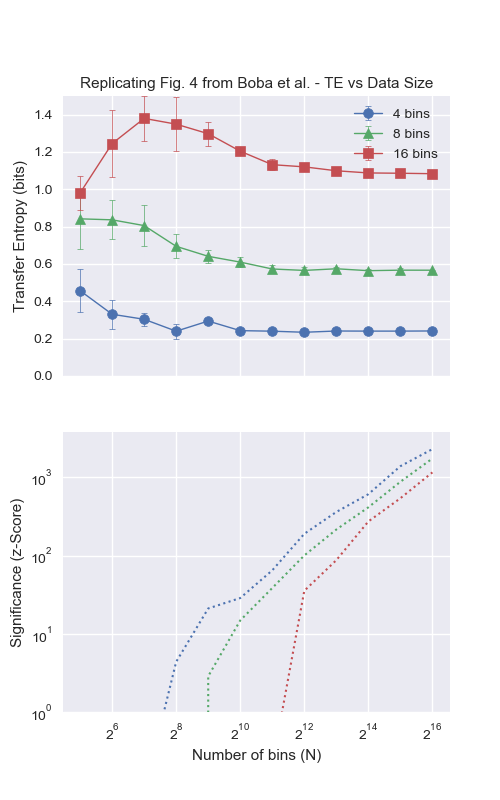
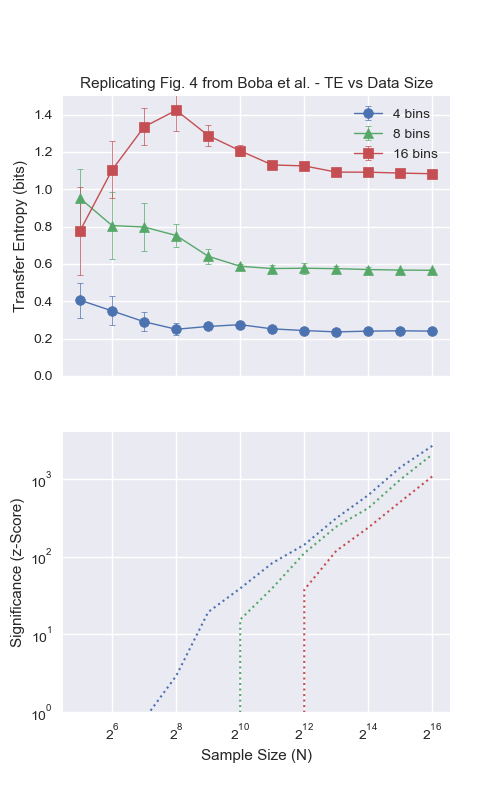
3D distribution plots of bivariate distributions, using histogram or KDE smoothing. Added example for this, and formatting improvments to existing examples.

diff --git a/PyCausality/Utils/Utils.py b/PyCausality/Utils/Utils.py
@@ -330,7 +330,7 @@ class AutoBins():
             bins = self.__extend_bins__(bins)
         return bins
 
-class kde(stats.gaussian_kde):
+class _kde_(stats.gaussian_kde):
     """
     Subclass of scipy.stats.gaussian_kde. This is to enable the passage of a pre-defined covariance matrix, via the
     `covar` parameter. This is handled internally within TransferEntropy class.
@@ -448,7 +448,7 @@ def pdf_kde(df, gridpoints=None, bandwidth=1, covar=None):
     ## Pass Meshgrid to Scipy Gaussian KDE to Estimate PDF
     positions = np.vstack([X.ravel() for X in grids])
     values = df.values.T
-    kernel = kde(values, bw_method=bandwidth, covar=covar)
+    kernel = _kde_(values, bw_method=bandwidth, covar=covar)
     Z = np.reshape(kernel(positions).T, grids[0].shape) 
 
     ## Normalise 
@@ -516,7 +516,8 @@ def shuffle_series(DF, only=None):
     
     return shuffled_DF
 
-def plot_pdf(df,estimator='kernel',gridpoints=None, bandwidth=None, covar=None, bins=None, show=False):
+def plot_pdf(df,estimator='kernel',gridpoints=None, bandwidth=None, covar=None, bins=None, show=False,
+            cmap='inferno', label_fontsize=7):
     """
     Wrapper function to plot the pdf of a pandas dataframe
         
@@ -530,39 +531,60 @@ def plot_pdf(df,estimator='kernel',gridpoints=None, bandwidth=None, covar=None, 
         covar       -       (Numpy ndarray) Covariance matrix between dimensions of df. 
         bins        -       (Dict of lists) Bin edges for NDHistogram. Used if estimator = 'histogram'
         show        -       (Boolean)   whether or not to plot direclty, or simply return axes for later use
+        cmap        -       (string)    Colour map (see: https://matplotlib.org/examples/color/colormaps_reference.html)
+        label_fontsize -    (float)     Defines the fontsize for the axes labels
+
     Returns:
         ax          -       AxesSubplot object. Can be added to figures to allow multiple plots.
     """
     
     DF = sanitise(df)
-    if len(DF.columns) > 2: 
-            warnings.warn("DataFrame has " + str(len(DF.columns)) + " dimensions. Only 2D or less can be plotted")
-    
-    if estimator == 'histogram':
-        if bins is None:
-            bins = {axis:np.linspace(DF[axis].min(),
-                                     DF[axis].max(),
-                                     9) for axis in DF.columns.values}
-        axes = plot_pdf_histogram(df,bins, show)
+    if len(DF.columns) != 2: 
+            print("DataFrame has " + str(len(DF.columns)) + " dimensions. Only 2D or less can be plotted")
+            axes = None
     else:
-        axes = plot_pdf_kernel(df, gridpoints, bandwidth, covar, show)
-    
-    axes.remove()
+        ## Plot data in Histogram or Kernel form
+        if estimator == 'histogram':
+            
+            if bins is None:
+                bins = {axis:np.linspace(DF[axis].min(),
+                                        DF[axis].max(),
+                                        9) for axis in DF.columns.values}
+            fig, axes = plot_pdf_histogram(df,bins,cmap)
+        else:
+            fig, axes = plot_pdf_kernel(df, gridpoints, bandwidth, covar,cmap)
+
+        ## Format plot
+        axes.set_xlabel(DF.columns.values[0],labelpad=20)
+        axes.set_ylabel(DF.columns.values[1],labelpad=20)
+        for label in axes.xaxis.get_majorticklabels():
+            label.set_fontsize(label_fontsize)
+        for label in axes.yaxis.get_majorticklabels():
+            label.set_fontsize(label_fontsize)
+        for label in axes.zaxis.get_majorticklabels():
+            label.set_fontsize(label_fontsize)
+        axes.view_init(10, 45)
+        if show == True:
+            plt.show()
+        plt.close(fig)
+        
+        axes.remove()
 
     return axes
 
-def plot_pdf_histogram(df,bins,show=None):
+def plot_pdf_histogram(df,bins, cmap='inferno'):
     """
     Function to plot the pdf of a dataset, estimated via histogram.
         
     Args:
         df          -       (DataFrame) Samples over which to estimate density
         bins        -       (Dict of lists) Bin edges for NDHistogram. Used if estimator = 'histogram'
-                                        
+
     Returns:
         ax          -       AxesSubplot object, passed back via to plot_pdf() function
     """
     DF = sanitise(df) # in case function called directly
+
 
     ## Calculate PDF
     PDF = get_pdf(df=DF,estimator='histogram',bins=bins)
@@ -574,7 +596,7 @@ def plot_pdf_histogram(df,bins,show=None):
     dxs, dys = np.meshgrid(np.diff(x_edges),np.diff(y_edges))
 
     ## Colourmap
-    cmap = cm.get_cmap('YlGn') 
+    cmap = cm.get_cmap(cmap) 
     rgba = [cmap((p-PDF.flatten().min())/PDF.flatten().max()) for p in PDF.flatten()] 
 
     ## Create subplots
@@ -590,24 +612,11 @@ def plot_pdf_histogram(df,bins,show=None):
                 alpha = 1,                  #transparency
                 color = rgba
     )
-    ax.set_title("Probability Mass Distribution",fontsize=10)
-    ax.set_xlabel(DF.columns.values[0])
-    ax.set_ylabel(DF.columns.values[1])
-    ax.view_init(5, 45)
+    ax.set_title("Histogram Probability Distribution",fontsize=10)
 
-    for label in ax.xaxis.get_majorticklabels():
-        label.set_fontsize(8)
-    for label in ax.yaxis.get_majorticklabels():
-        label.set_fontsize(8)
-    for label in ax.zaxis.get_majorticklabels():
-        label.set_fontsize(8)
-    if show == True:
-        plt.show()
-    else:
-        plt.close(fig)
-    return ax
+    return fig, ax
 
-def plot_pdf_kernel(df,gridpoints=None, bandwidth=None, covar=None, show=None):
+def plot_pdf_kernel(df,gridpoints=None, bandwidth=None, covar=None, cmap='inferno'):
     """
         Function to plot the pdf, calculated by KDE, of a dataset
         
@@ -630,35 +639,16 @@ def plot_pdf_kernel(df,gridpoints=None, bandwidth=None, covar=None, show=None):
     pdf = get_pdf(DF,gridpoints=gridpoints,bandwidth=bandwidth)    
     N = complex(gridpoints) 
     slices = [slice(dim.min(),dim.max(),N) for dimname, dim in DF.iteritems()]
+    X,Y = np.mgrid[slices]
+
+    fig = plt.figure()
+    ax = fig.add_subplot(111, projection='3d')
+    ax.plot_surface(X, Y, pdf, cmap=cmap)
     
 
-    ## If 2D Plot Surface
-    if len(DF.columns) == 2:
-        
-        X,Y = np.mgrid[slices]
-    
-        fig = plt.figure()
-        ax = fig.add_subplot(111, projection='3d')
-        ax.plot_surface(X, Y, pdf, cmap='YlGn')
-        
-        ax.set_xlabel(DF.columns.values[0])
-        ax.set_ylabel(DF.columns.values[1])
-        ax.view_init(5, 45)
-        ax.set_title("Probability Density Distribution across Coupled system",fontsize=10)
+    ax.set_title("KDE Probability Distribution",fontsize=10)
 
-    elif len(DF.columns) == 1:
-        X = np.mgrid[slices]
-
-        fig = plt.figure()
-        ax = fig.add_subplot(211, projection='3d')
-        plt.plot(np.linspace(X.min(),X.max(),gridpoints),pdf, axis=ax)
-        ax.set_title("Probability Density Distribution", fontsize=10)
-    
-    if show == True:
-        plt.show()
-    else:
-        plt.close(fig)
-    return ax
+    return fig, ax
 
 def sanitise(df):
     """

diff --git a/PyCausality/Examples/plotting_distributions.py b/PyCausality/Examples/plotting_distributions.py
@@ -1,0 +1,75 @@
+"""
+    This example demonstrates how to plot 3D density distributions of your time series data using PyCausality. We find 
+    this is a useful exploratory technique for quickly identifying possible bivariate relationships, and predicting
+    the effectiveness of estimation techniques over the data. This is epecially true for considering manual 
+    parameter selection, as the results from different bandwidths etc. can quickly be assessed.
+
+    Note that the functionality is currently limited to plotting bivariate relationships, i.e. 2D histograms with a z-xis projection.
+
+    Also note that the z-axis represents probability - NOT probability density. For equal-sized bins, the visual
+    effect is the same, but if variable-width bins are provided then the VOLUME of each bin's 3D projection does not 
+    reflect the probabilty of falling within the bin; it remains the HEIGHT of the bin which shows this.
+
+    This efect is clearly seen when using AutoBins().equiprobable_bins.
+"""
+
+import os # for saving plots
+import matplotlib.pyplot as plt
+from matplotlib.transforms import Bbox
+
+from PyCausality.TransferEntropy import *
+from PyCausality.Testing.Test_Utils.Time_Series_Generate import *
+
+
+## Set Parameters
+LAG = 1
+SIMILARITY = 0            # Choose value between 0 (independent) to 1 (exact lagged value)
+AUTOSIMILARITY = 0        # Choose value between 0 (independent) to 1 (exact lagged value)
+SEED = None                 # Change pseudo-RNG seed; useful for repeat results & comparing bin choices
+DATA_POINTS = 500
+BANDWIDTH = 0.8           # Choose bandwidth for KDE
+N_BINS = 15
+
+
+## Create Coupled GBM Time Series
+DF = coupled_random_walks(  S1 = 100, S2 = 100, T = 0.1, 
+                            N = DATA_POINTS, mu1 = 0, mu2 = 0, 
+                            sigma1 = 0.1, sigma2 = 0.1, 
+                            alpha = SIMILARITY, epsilon = AUTOSIMILARITY,
+                            lag = LAG, seed=SEED)
+
+
+# Use Differenced data
+DF['S2'] = DF['S2'].pct_change()
+DF['S1'] = DF['S1'].pct_change()
+DF = DF.iloc[LAG:]
+
+## Define equal-width (per dimension) histogram bins
+bins = {'S1':np.linspace(DF['S1'].min(),DF['S1'].max(),N_BINS),
+         'S2':np.linspace(DF['S2'].min(),DF['S2'].max(),N_BINS)}
+
+## Generate plots of the probability distribution. These are returned as axes objects
+hist_axis = plot_pdf(df=DF[['S1','S2']],estimator='histogram', bins=bins, cmap='viridis',show=False)
+kernel_axis = plot_pdf(df=DF[['S1','S2']],estimator='kernel', bandwidth=BANDWIDTH, cmap='viridis', show=False)
+
+
+
+## Strip the returned axes objects and apply them to subplots
+fig, axes = plt.subplots(nrows=0,ncols=0,figsize=(8,5.5))
+
+kernel_axis.figure = fig
+hist_axis.figure= fig
+AXES = [hist_axis, kernel_axis]
+fig.axes.append(AXES)
+[fig.add_axes(ax) for ax in AXES]
+
+## Position subplots
+pos1 = Bbox([[0.5,1.2],[1.5,2]])
+pos2 = Bbox([[0.5,0.1],[1.5,0.9]])
+hist_axis.set_position(pos1) 
+kernel_axis.set_position(pos2)
+
+plt.suptitle("Demonstrating PyCausality's Probablity Plotting Functionality")
+plt.savefig(os.path.join(os.getcwd(),'PyCausality', 'Examples','Plots','Plotting_Distributions.png'))
+plt.show()
+

diff --git a/PyCausality/Examples/te_vs_lag.py b/PyCausality/Examples/te_vs_lag.py
@@ -25,7 +25,7 @@ SIMILARITY = 0.75               # Choose value between 0 (independent) to 1 (exa
 AUTOSIMILARITY = 0.3            # Choose value between 0 (independent) to 1 (exact lagged value)
 SEED = None                     # Change pseudo-RNG seed; useful for repeat results & comparing bin choices
 
-MAX_BINS = 16
+MAX_BINS = 7
 N_SHUFFLES = 50
 
 
@@ -33,7 +33,7 @@ N_SHUFFLES = 50
 
 
 ### Uncomment to compare coupled geometric brownian motions
-DATA_POINTS = 300
+DATA_POINTS = 1000
 walks = coupled_random_walks(   S1 = 100, S2 = 90, T = 1, 
                                 N = DATA_POINTS, mu1 = 0, mu2 = 0, 
                                 sigma1 = 1, sigma2 = 1, 
@@ -84,6 +84,8 @@ for LAG in LAGs:
                 'S2':[-5, -2.5, -1, -0.5, 0, 0.5, 1, 2.5, 5],
                 'S2_lag'+str(LAG):[-5, -2.5, -1, -0.5, 0, 0.5, 1, 2.5, 5]
                 }                                
+    auto = AutoBins(DF,lag=LAG)
+    bins = auto.equiprobable_bins(MAX_BINS)
 
     ## Calculate NonLinear TE
     (TE_XY, TE_YX) = causality.nonlinear_TE(pdf_estimator = 'histogram',
@@ -115,23 +117,26 @@ print(results)
 results['TE_XY'].plot(ax=TE_axis,linewidth=1)
 results['TE_YX'].plot(ax=TE_axis,linewidth=1)
 
-TE_axis.set_title('TE versus Lag for Coupled Random Walks; Coupling Strength = ' + str(SIMILARITY))
+TE_axis.set_title('TE versus Lag for Coupled Random Walks; Coupling Strength = ' + str(SIMILARITY),fontsize=11)
 
 TE_axis.set_ylim(ymin=0, ymax=2.5)
-TE_axis.set_ylabel('Transfer Entropy (bits)')
-TE_axis.legend(['TE (S1->S2)', 'TE (S2->S1)'])
+TE_axis.set_ylabel('Transfer Entropy (bits)',fontsize=8)
+TE_axis.legend(['TE (S1->S2)', 'TE (S2->S1)'],fontsize=8)
 
 ## Plot Significance
 results['Z_XY'].plot(ax=Z_axis,linewidth=0.75, linestyle=':')
 results['Z_YX'].plot(ax=Z_axis,linewidth=0.75, linestyle=':')
 
-Z_axis.set_xlabel('LAG')
+Z_axis.set_xlabel('LAG',fontsize=9)
 Z_axis.set_ylim(ymin=-1)
-Z_axis.set_ylabel('Significance (z-score)')
+Z_axis.set_ylabel('Significance (z-score)',fontsize=9)
 Z_axis.legend(['Significance of TE (S1->S2)','Significance of TE (S2->S1)'])
 
 plt.grid(linestyle='dashed')
-
+TE_axis.xaxis.set_tick_params(labelsize=8)
+TE_axis.yaxis.set_tick_params(labelsize=8)
+Z_axis.xaxis.set_tick_params(labelsize=8)
+Z_axis.yaxis.set_tick_params(labelsize=8)
 
 plt.savefig(os.path.join(os.getcwd(),'PyCausality','Examples','Plots','Detect_Lag.png'))
 plt.show()

diff --git a/PyCausality/Examples/coupled_map.py b/PyCausality/Examples/coupled_map.py
@@ -88,11 +88,12 @@ for i,n_bins in enumerate([4,8,16]):
 ## Format Plots
 TE_axis.set_xscale('log', basex=2)
 TE_axis.set_ylabel('Transfer Entropy (bits)')
-Z_axis.set_xlabel("Number of bins (N)")
+Z_axis.set_xlabel("Sample Size (N)")
 Z_axis.set_ylabel('Significance (z-Score)')
 TE_axis.legend(['4 bins','8 bins', '16 bins'])
 TE_axis.set_ylim(ymin=0,ymax=1.5)
 TE_axis.set_title('Replicating Fig. 4 from Boba et al. - TE vs Data Size',fontsize=11)
 
 plt.savefig(os.path.join(os.getcwd(),'PyCausality','Examples','Plots','Coupled_Map.png'))
+plt.savefig(os.path.join(os.getcwd(),'PyCausality','Examples','Coupled_Map.pdf'))
 plt.show()
